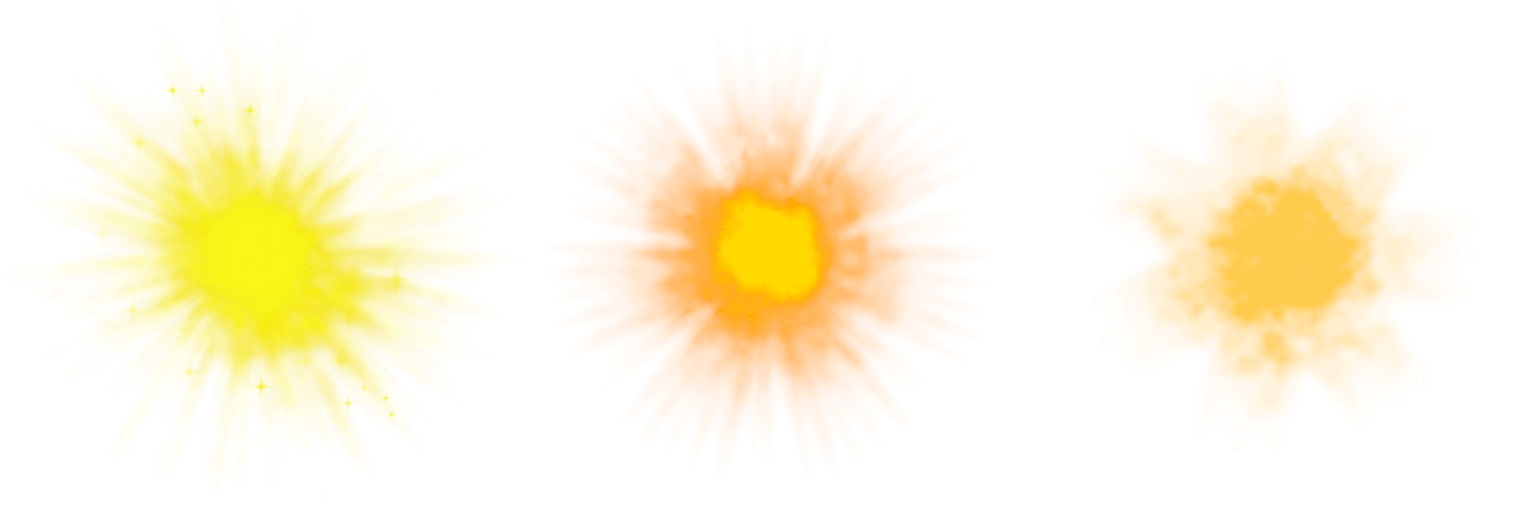
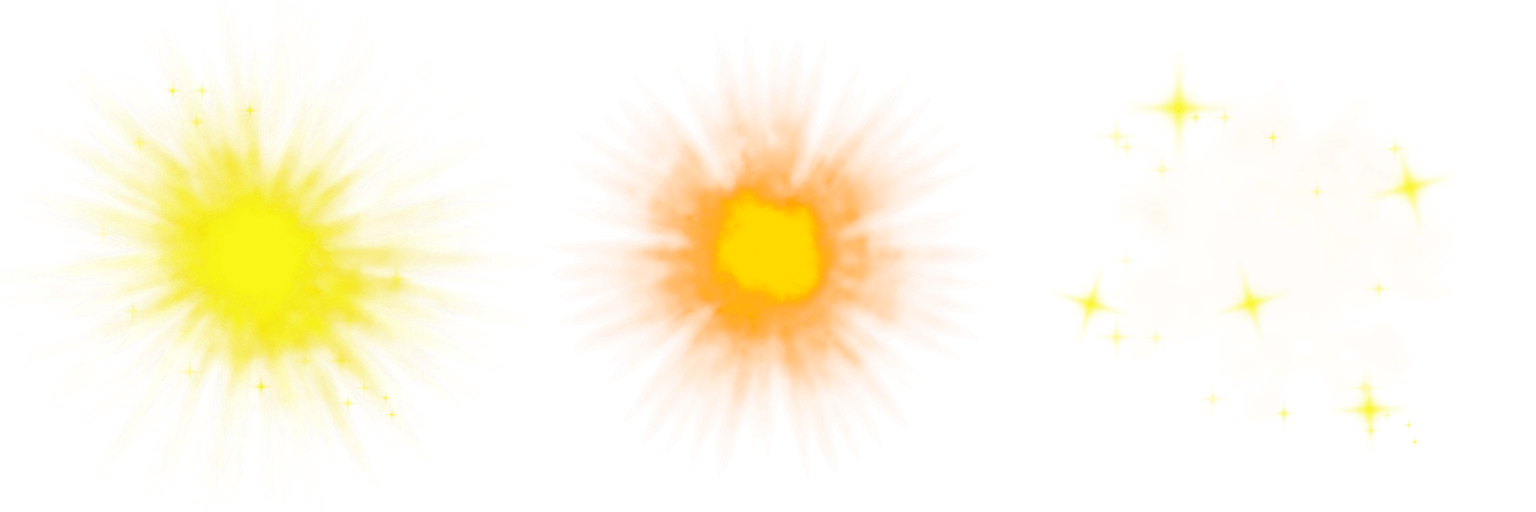
scorch atlas fix

Changed region(s): [[0.7188, 0.1562, 0.9375, 0.8125], [0.875, 0.75, 0.9062, 0.8438], [0.6875, 0.5625, 0.7188, 0.625]]

diff --git a/apps/ultra-ace-web/src/App.css b/apps/ultra-ace-web/src/App.css
@@ -454,7 +454,7 @@
     width: 110%;
     height: 110%;
 
-    background-image: url('./assets/vfx/scorch_atlas2.png');
+    background-image: url('./assets/vfx/scorch_atlas.png');
     background-size: 300% 100%;
     background-repeat: no-repeat;
 
@@ -527,7 +527,7 @@
     opacity: 0;
     pointer-events: none;
 
-    background-image: url('./assets/vfx/scorch_atlas2.png');
+    background-image: url('./assets/vfx/scorch_atlas.png');
     background-size: 300% 100%;
 
     will-change: background-size, opacity;
